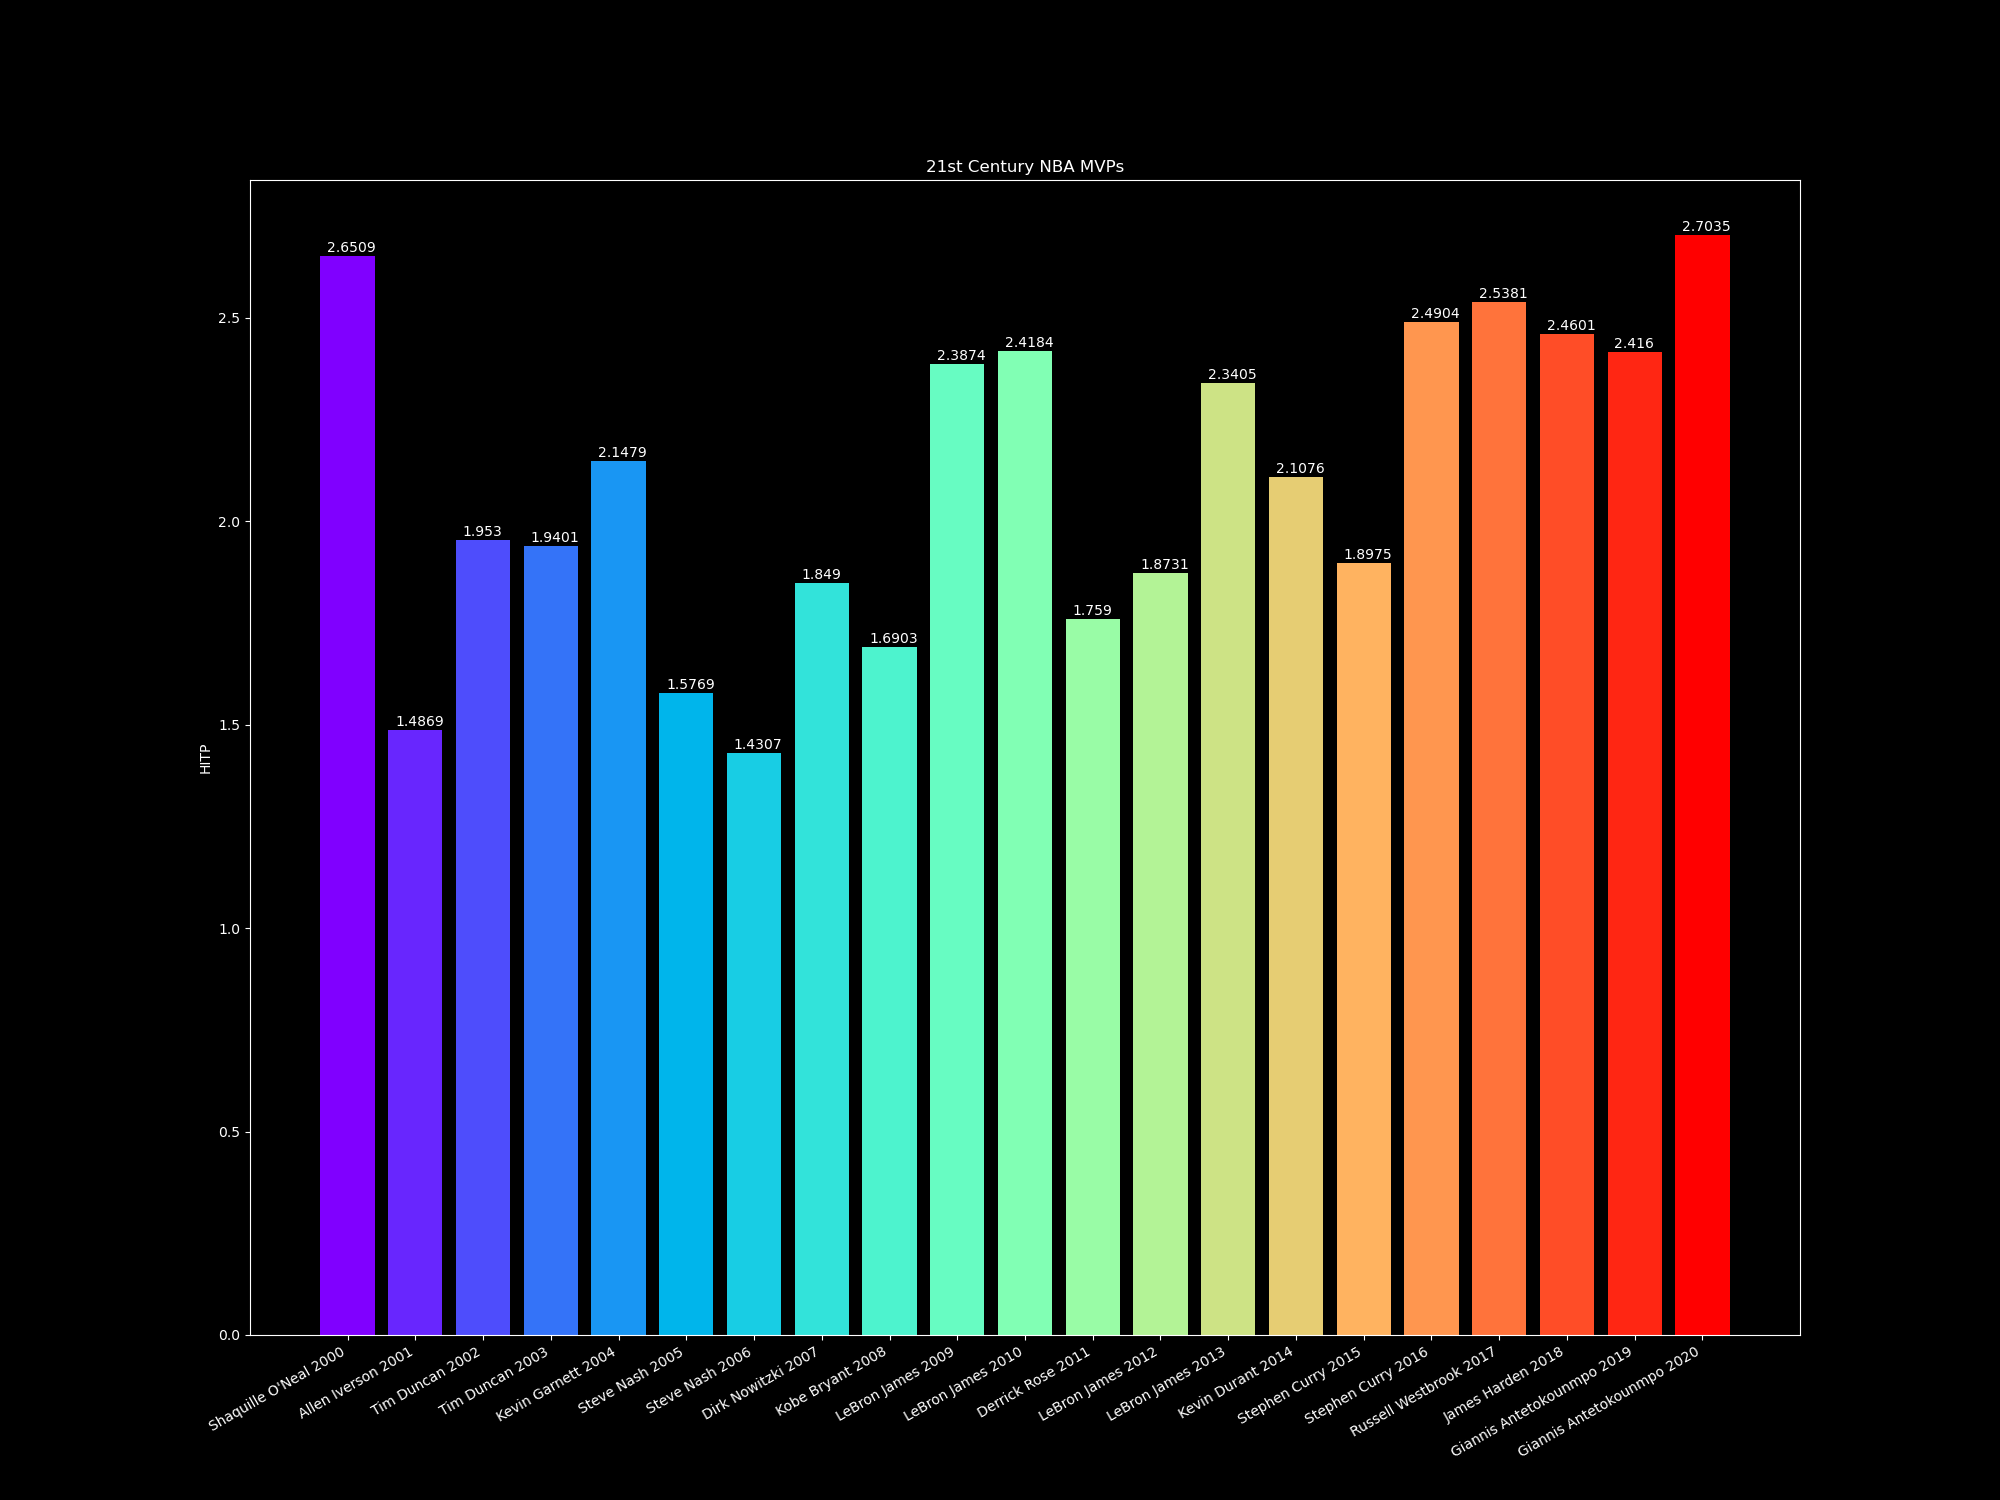
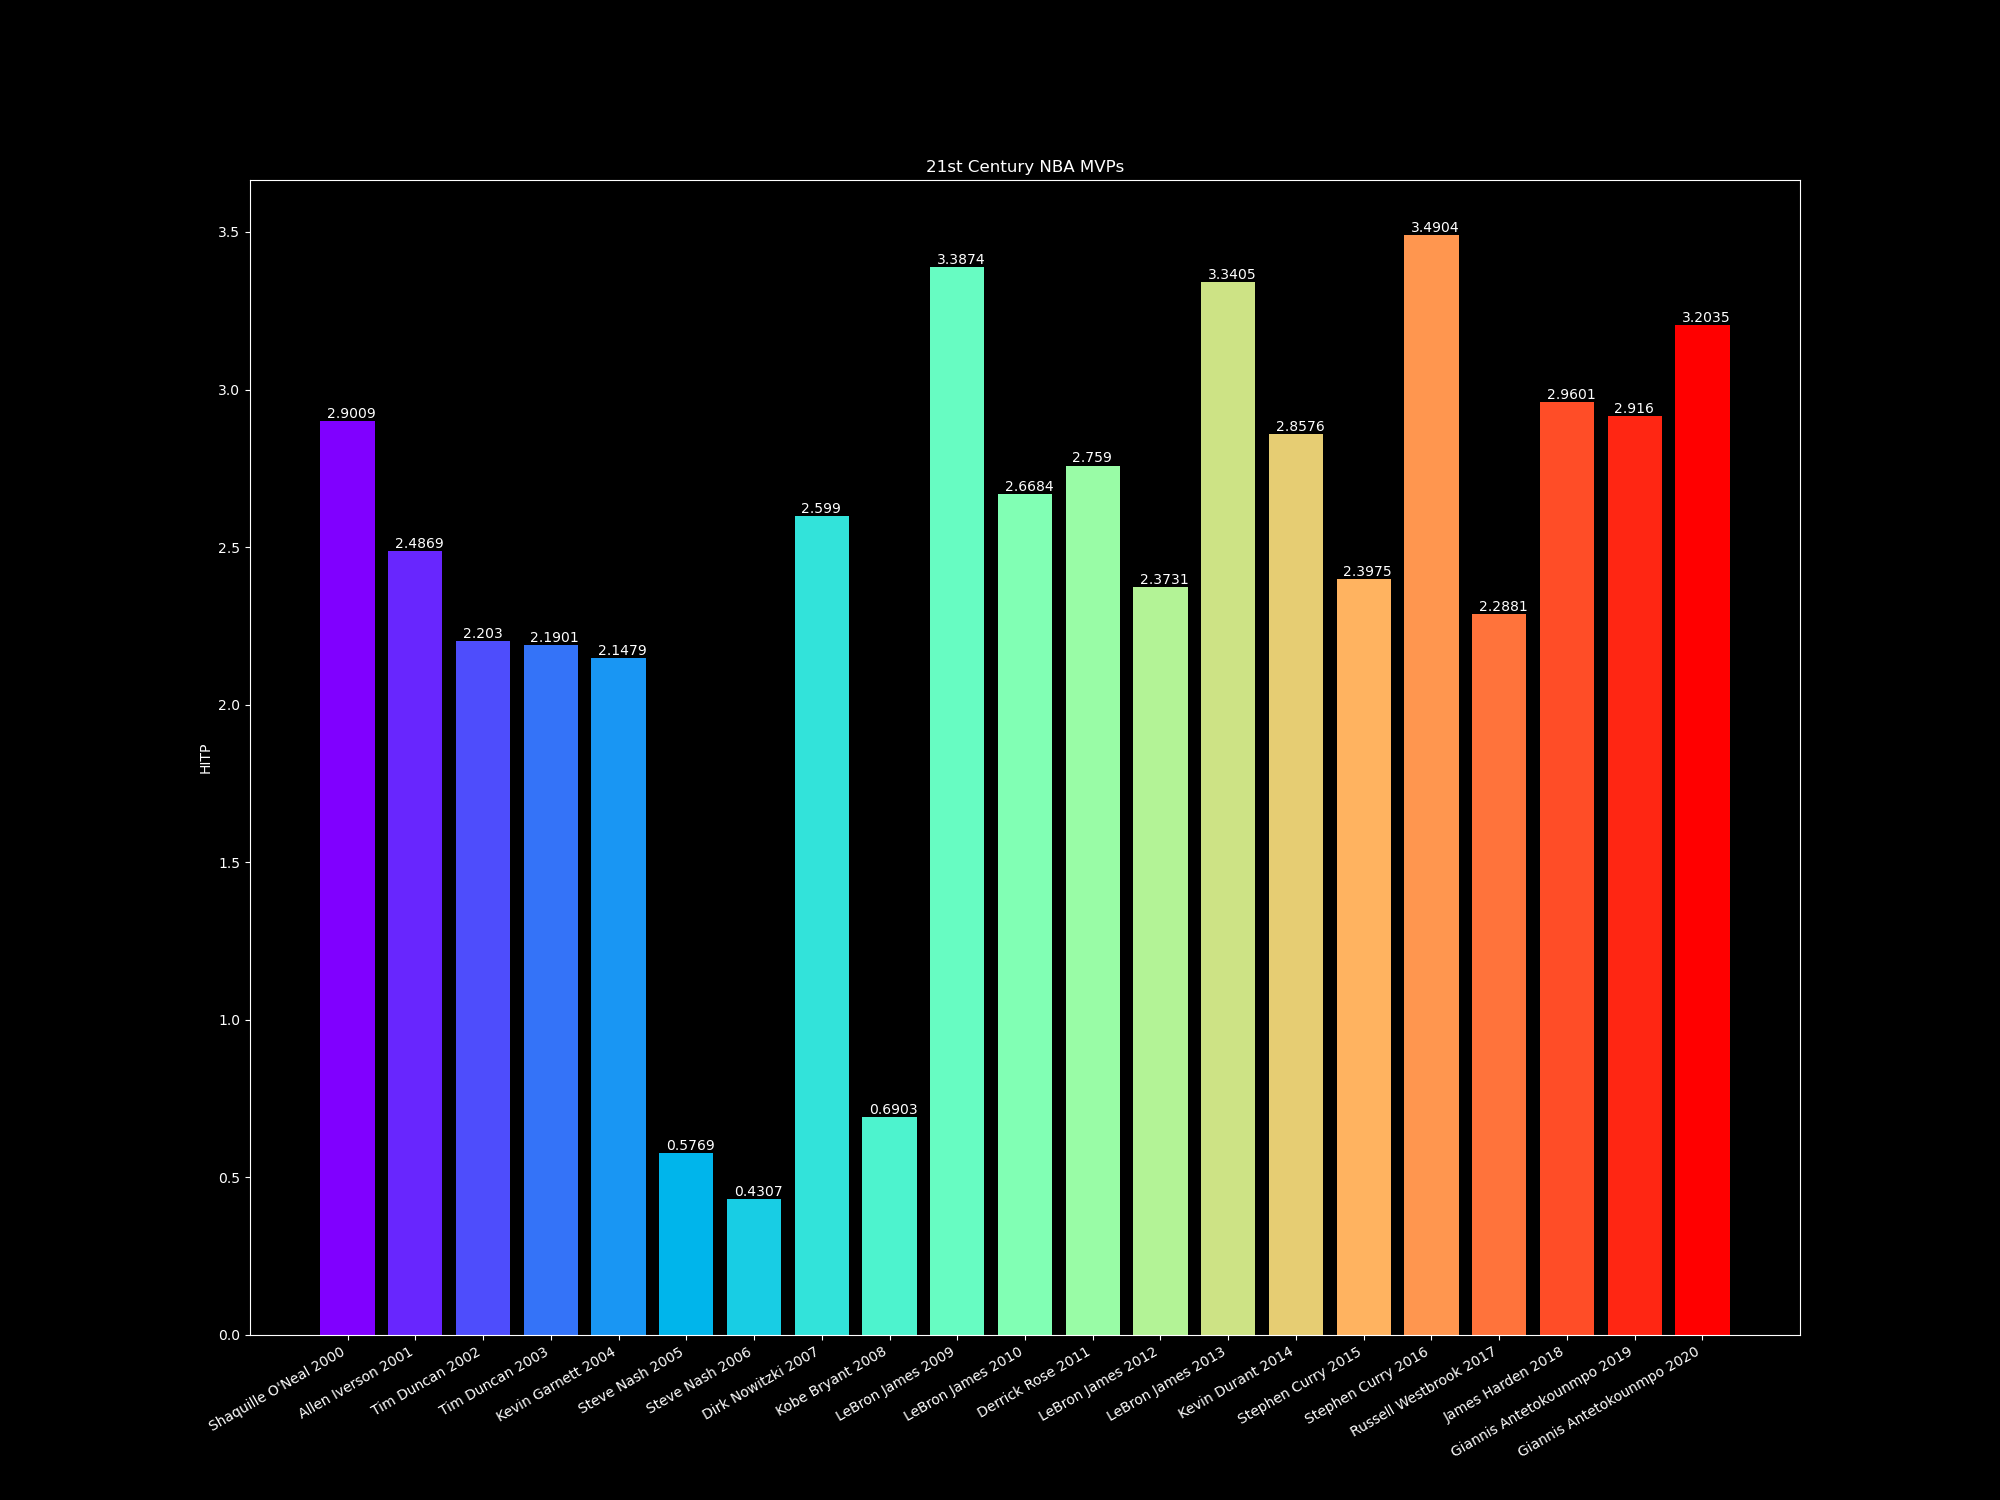
Tweaked parameters

diff --git a/MVP/mvp.py b/MVP/mvp.py
@@ -36,8 +36,8 @@ def calculate_hitp(data_row):
     w_rebs = 1.0
     w_asts = 1.0
     w_wins = 1.0
-    w_mem = 1.5
-    w_another = 0.5
+    w_mem = 1.0
+    w_another = 1.0
 
     value = np.sum([
         w_pts*data_row["Points"],
